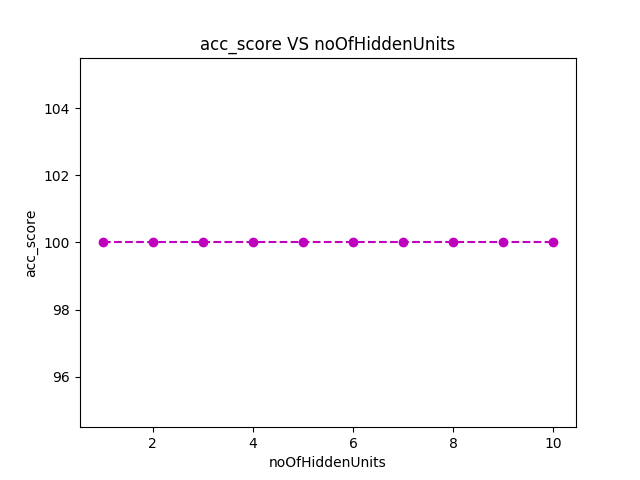
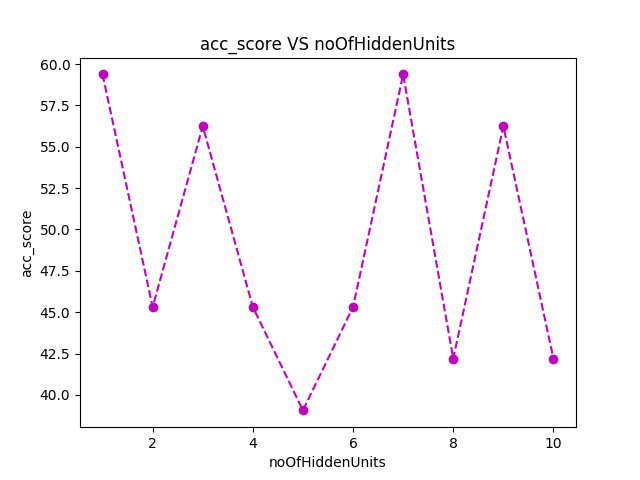
added accuracy pred

diff --git a/Assignment6/Question1.py b/Assignment6/Question1.py
@@ -1,6 +1,7 @@
 
 import numpy as np
 import math
+import random
 from sklearn.metrics import accuracy_score
 import matplotlib
 matplotlib.use('TkAgg')
@@ -10,52 +11,99 @@ def calSigmoid(val):
     sigmoid = (1 / (1 + np.exp(val * -1)))
     return sigmoid
 
-def calLossFunc(X, y, w_curr):
-    loss = 0
-    o = np.zeros(len(w_curr))
-    for idx in range(len(X)):
-        sig = 0 if calSigmoid(np.dot(X[idx], w_curr[idx]))<0.5 else 1
-        o[idx] = sig
-        loss = loss + math.pow((y[idx] - o[idx]), 2)
-    return loss, o
+def feedForward(x_final, wAll):
+    o1 = np.zeros(len(wAll[0]))
+    o2 = np.zeros(len(wAll[1]))
 
-def getWeightsGradDecent(X, y, w, learning_rate, tolerance, maxIter):
-    loss = 0
-    loss_new = 0
-    for iter in range(maxIter):
-        for n in range(len(X)):
-            for wIdx in range(len(w)):
-                temp, o = calLossFunc(X[n], y[n], w[wIdx])
-                loss_new = loss_new + temp
-                w[wIdx] = w[wIdx] + (learning_rate * np.matmul(o.T, (np.ones(len(w[wIdx])) - o)) * np.dot(X[n], w[wIdx]))
-        loss = loss_new
-        if abs(loss_new - loss) <= tolerance:
-            return w
-    return w
+    for i in range(len(o1)):
+        prod1 = np.zeros(len(x_final))
+        for j in range(len(x_final)):
+            prod1[j] = x_final[j] * wAll[0][i][j]
+        o1[i] = calSigmoid(np.sum(prod1))
 
-def getPredictedOutputAndWeightsGradDecent(X, y, learning_rate, tolerance, maxIter, w):
-    w = getWeightsGradDecent(X, y, w, learning_rate, tolerance, maxIter)
-    print("w = ",w)
-    y_pred = np.zeros((len(y), len(y[0])))
-    for rowIndex in range(len(X)):
-        temp = np.zeros(len(y[0]))
-        for w_currIdx in range(len(w)):
-            xNew = []
-            for ls in X[rowIndex]:
-                xNew.append([ls])
-            xNew = np.array(xNew)
-            mulArr = np.prod((xNew, w[w_currIdx]), axis=0)
-            mulArrNew = []
-            for eleIdx in range(len(mulArr)):
-                sig = 0 if (calSigmoid(mulArr[eleIdx]) == 0.5) else 1
-                mulArrNew.append(sig)
-            temp = np.sum((temp, mulArrNew), axis=0)
-        temp[temp > 0] = 1
-        y_pred[rowIndex] = temp
-    print("y_pred = ",y_pred)
-    return y_pred, w
+    o1_final = []
+    for ls in o1:
+        o1_final.append([ls])
+    o1_final = np.array(o1_final)
+    for i in range(len(o2)):
+        prod1 = np.zeros(len(o1_final))
+        for j in range(len(o1_final)):
+            prod1[j] = o1_final[j] * wAll[1][i][j]
+        o2[i] = calSigmoid(np.sum(prod1))
 
-def evaluate_algorithmGradDecent(X, y, learning_rate, tolerance, noOfHiddenUnits, maxIter):
+    o2_final = []
+    for ls in o2:
+        o2_final.append([ls])
+    o2_final = np.array(o2_final)
+
+    return o1_final, o2_final
+
+def backPropogate(x_final, y_final, wAll, learning_rate, o1_final, o2_final):
+    # updating weights between hidden layer and output layer
+    for idx1 in range(len(wAll[1])):
+        for idx2 in range(len(wAll[1][idx1])):
+            wAll[1][idx1][idx2] = wAll[1][idx1][idx2] + \
+                                  (learning_rate * (y_final[idx1] - o2_final[idx1]) * o2_final[idx1] *
+                                   (1 - o2_final[idx1]) * o1_final[idx2])
+
+    # updating weights between hidden layer and input layer
+    for idx1 in range(len(wAll[0])):
+        for idx2 in range(len(wAll[0][idx1])):
+            # computing downstream sum
+            sum = 0
+            for idx3 in range(len(wAll[1])):
+                sum = sum + wAll[1][idx3][idx1]*x_final[idx2]
+            # update w
+            wAll[0][idx1][idx2] = wAll[0][idx1][idx2] + (learning_rate * o1_final[idx1] * (1 - o1_final[idx1]) * sum)/len(wAll[1])
+
+    return wAll
+
+def update(x_final, y_final, learning_rate, wAll):
+    o1_final, o2_final = feedForward(x_final, wAll)
+    wAll = backPropogate(x_final, y_final, wAll, learning_rate, o1_final, o2_final)
+    return wAll
+
+def getPredictedOutput(X, wAll):
+    # y_pred = np.zeros((len(X), len(X[0])))
+    y_pred = []
+    idx1 = 0
+    for xRow in X:
+        x_final = []
+        for ls in xRow:
+            x_final.append([ls])
+        x_final = np.array(x_final)
+        y1, y2 = feedForward(x_final, wAll)
+        for i in range(len(y2)):
+            y2[i] = 0 if y2[i]<0.5 else 1
+        y_pred.append(y2)
+        idx1 = idx1 + 1
+    # for xRow in X:
+    #     x_final = []
+    #     for ls in xRow:
+    #         x_final.append([ls])
+    #     x_final = np.array(x_final)
+    #     y1, y2 = feedForward(x_final, wAll)
+    #     for i in range(len(x_final)):
+    #         y_pred[idx1][i] = 0 if y2[i]*x_final[i]==0 else 1
+    #     idx1 = idx1 + 1
+    return y_pred
+
+def calAccuracyScore(y_pred, y_actual):
+    y_actualFinal = []
+    for idx in range(len(y_actual)):
+        y_final = []
+        for ls in y_actual[idx]:
+            y_final.append([float(ls)])
+        y_final = np.array(y_final)
+        y_actualFinal.append(y_final)
+    count = 0
+    for i in range(len(y_pred)):
+        for j in range(len(y_pred[0])):
+            if y_pred[i][j]==y_actualFinal[i][j]:
+                count = count + 1
+    return (count/64)*100
+
+def evaluate_algorithmGradDecent(X, y, learning_rate, noOfHiddenUnits, maxIter):
     # initializations
     wAll = []
     w1 = []
@@ -67,19 +115,26 @@ def evaluate_algorithmGradDecent(X, y, learning_rate, tolerance, noOfHiddenUnits
         w2.append(np.random.randn(noOfHiddenUnits, 1))
     wAll.append(w2)
 
+    for iter in range(maxIter):
+        # random.shuffle(X)
+        idx = 0
+        for xRow in X:
+            x_final = []
+            for ls in xRow:
+                x_final.append([ls])
+            x_final = np.array(x_final)
 
+            y_final = []
+            for ls in y[idx]:
+                y_final.append([ls])
+            y_final = np.array(y_final)
 
-    w = getWeightsGradDecent(X, y, w, learning_rate, tolerance, maxIter)
-    acc_score = []
-    while True :
-        y_pred, w = getPredictedOutputAndWeightsGradDecent(X, y, learning_rate, tolerance, maxIter, w)
-        score = accuracy_score(y, y_pred)*100
-        acc_score.append(score)
-        print("accuracy score = ",score)
-        if score > 95:
-            break
-    return score
-    # return acc_score
+            wAll = update(x_final, y_final, learning_rate, wAll)
+            idx = idx + 1
+
+    y_pred = getPredictedOutput(X, wAll)
+    # print("y_pred = ",y_pred)
+    return calAccuracyScore(y_pred, y)
 
 def main():
     X = np.array([[1, 0, 0, 0, 0, 0, 0, 0],
@@ -98,20 +153,21 @@ def main():
          [0, 0, 0, 0, 0, 1, 0, 0],
          [0, 0, 0, 0, 0, 0, 1, 0],
          [0, 0, 0, 0, 0, 0, 0, 1]])
-    # acc_score = []
-    # noOfHiddenUnits = [1,2,3,4,5,6,7,8,9,10]
-    # for n in noOfHiddenUnits:
-    #     # evaluate_algorithmGradDecent(X, y, learning_rate, tolerance, noOfHiddenUnits, maxIter)
-    #     score = evaluate_algorithmGradDecent(X, y, 0.00001, 0.00001, 1, 1000)
-    #     acc_score.append(score)
-    score = evaluate_algorithmGradDecent(X, y, 0.00001, 0.00001, 3, 1000)
+    acc_score = []
+    noOfHiddenUnits = [1,2,3,4,5,6,7,8,9,10]
+    for n in noOfHiddenUnits:
+        # evaluate_algorithmGradDecent(X, y, learning_rate, noOfHiddenUnits, maxIter)
+        score = evaluate_algorithmGradDecent(X, y, 0.00001, n, 1000)
+        print("score = ",score)
+        acc_score.append(score)
+    # score = evaluate_algorithmGradDecent(X, y, 0.001, 0.00001, 5, 1000)
 
-    # fig = plt.figure()
-    # ax1 = fig.add_subplot(111)
-    # ax1.set_title('acc_score VS noOfHiddenUnits')
-    # ax1.set_xlabel('noOfHiddenUnits')
-    # ax1.set_ylabel('acc_score')
-    # ax1.plot(noOfHiddenUnits, acc_score, ls='--', marker='o', c='m', label='acc_score')
-    # plt.show()
+    fig = plt.figure()
+    ax1 = fig.add_subplot(111)
+    ax1.set_title('acc_score VS noOfHiddenUnits')
+    ax1.set_xlabel('noOfHiddenUnits')
+    ax1.set_ylabel('acc_score')
+    ax1.plot(noOfHiddenUnits, acc_score, ls='--', marker='o', c='m', label='acc_score')
+    plt.show()
 
 if __name__ == "__main__": main()
